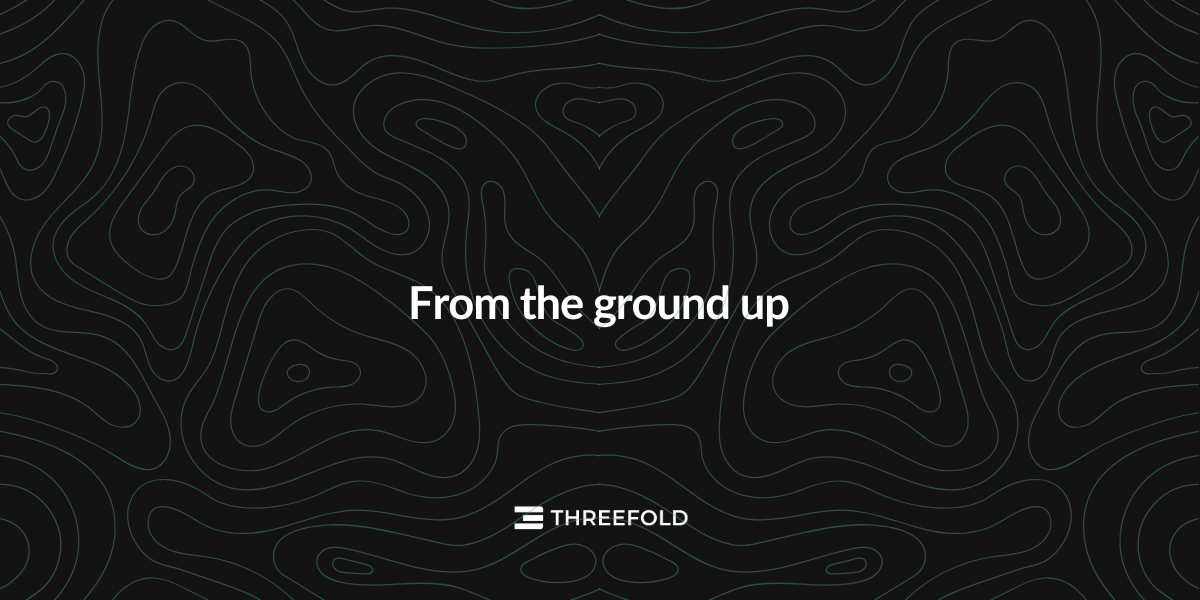
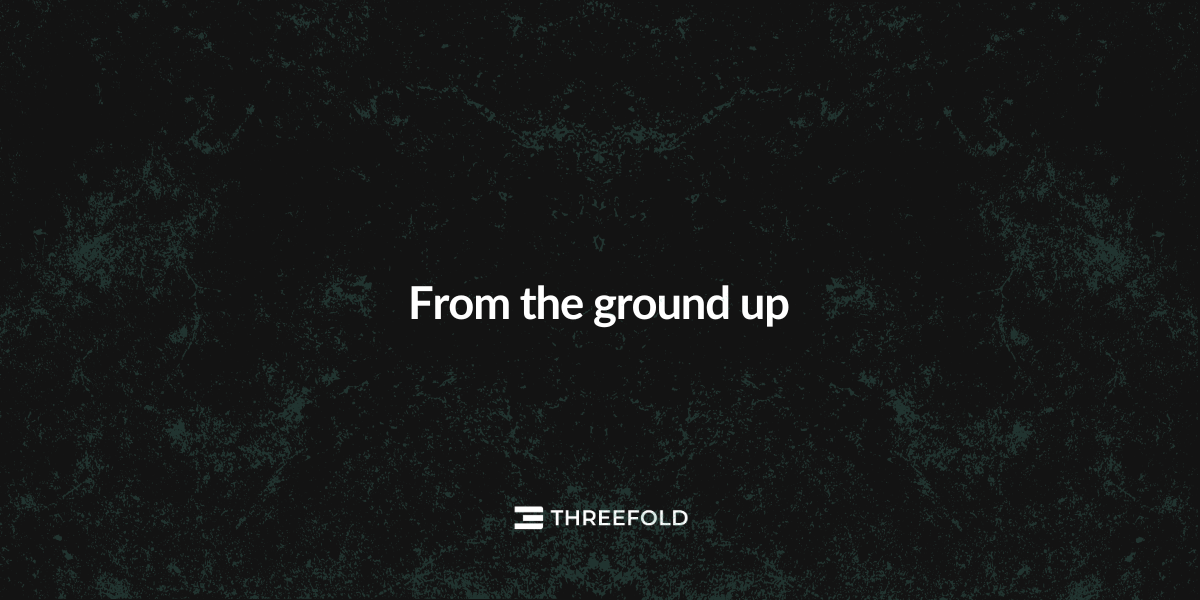
Images added

diff --git a/content/blog/internet_misconceptions/index.md b/content/blog/internet_misconceptions/index.md
@@ -9,7 +9,7 @@ taxonomies:
   tags: [grid,decentralization,tech,why]
   categories: [grid,decentralization,tech,why]
 extra:
-    imgPath: the_truth_behind1.png
+    imgPath: truth_behind_misconceptions.png
 ---
 
 It’s been years that the ThreeFold team has been at this work of evolving the Internet in a fair and just way. We know how the Internet works and the challenges it faces, and because of this, we have been able to do the work of upgrading the Internet with a ground-up solution.

diff --git a/content/blog/transformative_impact_summit/index.md b/content/blog/transformative_impact_summit/index.md
@@ -9,7 +9,7 @@ taxonomies:
   tags: [community]
   categories: [community]
 extra:
-    imgPath: creating_transformative_impact1.png
+    imgPath: creating_tranformative1.png
 ---
 
 *“By bringing together those dedicating their lives to making the world a better place, and empowering them with exposure, support, connection, and funding, we not only celebrate transformative impact, we create it.”*
